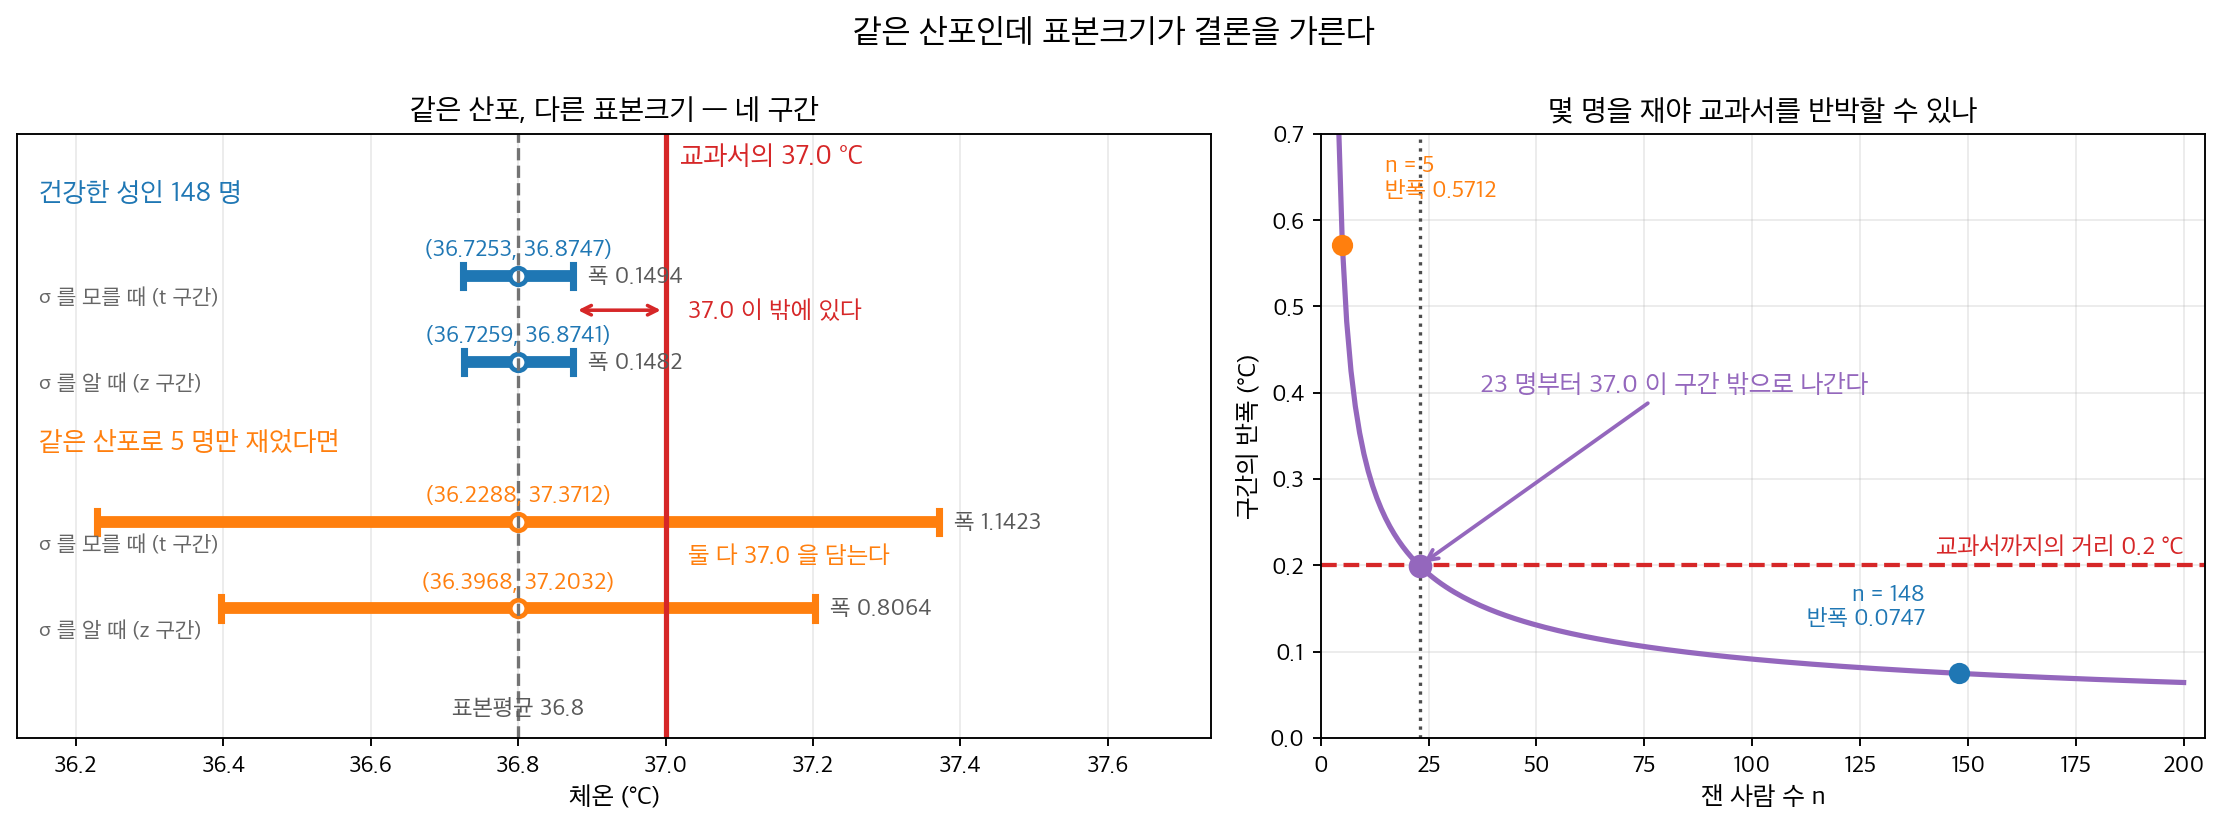
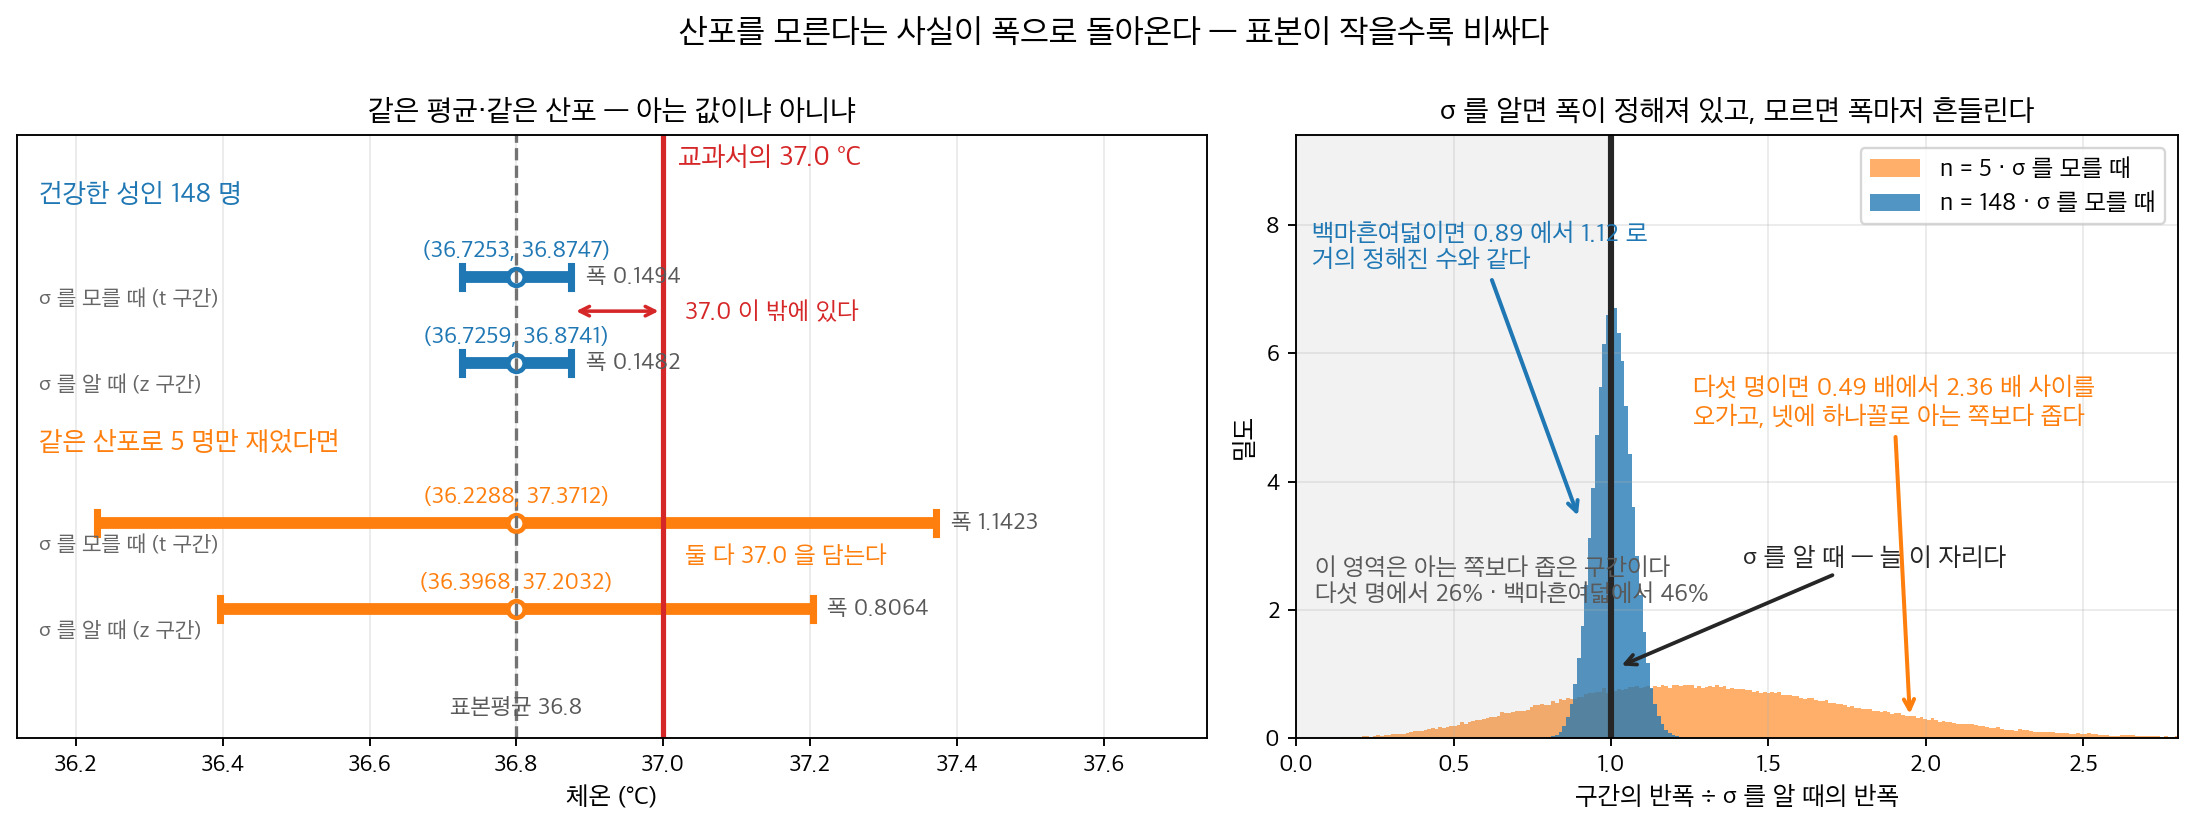
docs(ch08): 8.2 들머리의 주장을 앞으로 — σ 를 아는가
들머리의 주장은 「σ 를 아는가가 구간을 정한다」인데 제목과 첫 세 문단이
초록에서 산포 0.46 을 되짚는 **기제**를 들고 있었다. 갈림길은 넷째
문단에 가서야 나왔다. 문장은 다 맞고 차례만 틀린 꼴이다.

- 제목을 「백이십 년 동안 37.0 이라 적었다」에서 「산포를 모른다는
  사실에 값이 붙는다」로 바꾸고, 첫 문단이 갈림길을 세우게 했다.
  37.0 이야기는 그 갈림길에 놓인 보기로 둘째 문단으로 내렸다
- 그림의 오른쪽 칸을 갈아 끼웠다. 「몇 명을 재야 교과서를 반박하나」는
  표본크기 이야기여서 주장이 아니다. 대신 **넓어진다의 더 날카로운
  꼴**을 그린다 — σ 를 알면 반폭이 자료를 보기 전에 정해진 수지만
  (n = 5 에서 늘 0.4032), 모르면 폭 자체가 표본마다 달라진다.
  아는 쪽의 반폭을 1 로 놓고 재니 다섯 명에서 [0.49, 2.36] 배를
  오가고 **넷에 하나꼴(0.264)로 아는 쪽보다 좁게** 나온다.
  148 명에서는 [0.89, 1.12] 로 사실상 정해진 수와 같다
- 평균적으로 넓어지는 것이 그 요동에 치르는 값이라는 문단을 넣었다

겹침은 먼저 확인했다. 임계값의 비는 1 절 t_vs_z_cost 가, 한 표본에서
넓어진 몫을 둘로 쪼개는 일은 width_decomposition 이 이미 그린다.
폭의 **분포**는 어느 쪽도 그리지 않는다.

23 명이라는 수가 그림에서 빠졌으므로 대체텍스트와 출처 줄에서도 뺐다.

diff --git a/scripts/make_ch08_body_temp_intervals.py b/scripts/make_ch08_body_temp_intervals.py
@@ -1,13 +1,16 @@
-"""8.2절 μ의 신뢰구간 — 교과서의 37.0 은 구간 안에 있는가.
+"""8.2절 μ의 신뢰구간 — 산포를 아는가가 폭을 정한다.
 
-들머리가 적은 네 구간을 그대로 그린다. 마코위악 외(1992)의 초록에서 평균
+들머리의 주장은 **sigma 를 아는가**다. 마코위악 외(1992)의 초록에서 평균
 36.8 과 정상 상한 37.7 을 읽고, 상한을 "평균 + 1.96 x 산포" 로 되짚어
-산포 0.46 을 얻은 뒤(이 되짚기는 이 책의 가정이다), 네 가지로 구간을
-만든다 --- n = 148 과 n = 5, 각각 sigma 를 모를 때와 알 때.
+산포 0.46 을 얻은 뒤(이 되짚기는 이 책의 가정이다), 그 하나를 아는 값으로
+칠 때와 추정해야 할 값으로 칠 때를 두 표본크기에서 맞댄다.
 
-오른쪽은 그 다음 물음이다. 다섯 명으로는 37.0 을 배제하지 못했는데,
-같은 산포라면 몇 명을 재야 배제할 수 있는가. 쪽의 1 절 그림
-t_vs_z_cost 가 임계값의 비를 n 에 따라 그리므로 여기서는 그리지 않는다.
+오른쪽은 "넓어진다" 의 더 날카로운 꼴이다. sigma 를 알면 구간의 폭은 자료를
+모으기 전에 이미 정해진 수인데, 모르면 **폭 자체가 표본마다 달라진다.**
+처음에 여기에 "몇 명을 재야 교과서를 반박하나" 를 그렸는데 그것은 표본크기
+이야기여서 들머리의 주장이 아니었다. 겹침도 보아야 한다 --- 임계값의 비는
+1 절의 t_vs_z_cost 가, 한 표본에서 넓어진 몫을 둘로 쪼개는 일은
+width_decomposition 이 이미 그린다. 폭의 **분포**는 어느 쪽도 그리지 않는다.
 """
 
 import matplotlib.pyplot as plt
@@ -70,40 +73,57 @@ ax1.set_xlim(36.12, 37.74)
 ax1.set_ylim(-0.75, 4.15)
 ax1.set_yticks([])
 ax1.set_xlabel("체온 (°C)", fontsize=11)
-ax1.set_title("같은 산포, 다른 표본크기 — 네 구간", fontsize=12.5)
+ax1.set_title("같은 평균·같은 산포 — 아는 값이냐 아니냐", fontsize=12.5)
 ax1.grid(axis="x", alpha=0.25)
 
-# ── (우) 몇 명을 재야 37.0 을 배제하나 ─────────────────────────────
-gap = BOOK - XBAR
-ns = np.arange(3, 201)
-half = stats.t.ppf(0.975, ns - 1) * SIG / np.sqrt(ns)
-need = int(ns[half < gap][0])
-ax2.plot(ns, half, color="tab:purple", lw=2.2)
-ax2.axhline(gap, color="tab:red", lw=1.8, ls="--")
-ax2.text(200, gap + 0.012, f"교과서까지의 거리 {gap:.1f} °C", ha="right",
-         fontsize=10.5, color="tab:red", fontweight="bold")
-ax2.axvline(need, color="0.3", lw=1.4, ls=":")
-ax2.plot([need], [stats.t.ppf(0.975, need - 1) * SIG / np.sqrt(need)], "o",
-         ms=9, color="tab:purple")
-ax2.annotate(f"{need} 명부터 37.0 이 구간 밖으로 나간다",
-             xy=(need, gap), xytext=(need + 14, 0.40), fontsize=11,
-             fontweight="bold", color="tab:purple",
-             arrowprops=dict(arrowstyle="->", color="tab:purple", lw=1.6))
-for n, c in ((5, "tab:orange"), (148, "tab:blue")):
-    h = stats.t.ppf(0.975, n - 1) * SIG / np.sqrt(n)
-    ax2.plot([n], [h], "o", ms=8, color=c)
-    ax2.annotate(f"n = {n}\n반폭 {h:.4f}", xy=(n, h),
-                 xytext=(n + (10 if n == 5 else -8), h + 0.055),
-                 ha="left" if n == 5 else "right", fontsize=10, color=c,
-                 fontweight="bold")
-ax2.set_xlim(0, 205)
-ax2.set_ylim(0, 0.70)
-ax2.set_xlabel("잰 사람 수 n", fontsize=11)
-ax2.set_ylabel("구간의 반폭 (°C)", fontsize=11)
-ax2.set_title("몇 명을 재야 교과서를 반박할 수 있나", fontsize=12.5)
+# ── (우) 모르면 폭 자체가 흔들린다 ────────────────────────────────
+# 아는 쪽의 반폭을 1 로 놓아 두 표본크기를 한 축에 올린다
+rng = np.random.default_rng(802)
+REPS = 200_000
+stat = {}
+for n, col in ((5, "tab:orange"), (148, "tab:blue")):
+    zh = Z * SIG / np.sqrt(n)                      # 늘 같은 수
+    sd = rng.normal(XBAR, SIG, (REPS, n)).std(axis=1, ddof=1)
+    ratio = stats.t.ppf(0.975, n - 1) * sd / np.sqrt(n) / zh
+    lo_, hi_ = np.percentile(ratio, [2.5, 97.5])
+    stat[n] = (zh, ratio, float(np.median(ratio)), float(lo_), float(hi_),
+               float((ratio < 1).mean()))
+    ax2.hist(ratio, bins=np.linspace(0, 3, 260), density=True, color=col,
+             alpha=0.62 if n == 5 else 0.78,
+             label=f"n = {n} · σ 를 모를 때")
+ax2.set_ylim(0, ax2.get_ylim()[1] * 1.32)      # 글자 자리를 위에 낸다
+ax2.axvline(1.0, color="0.15", lw=2.6)
+ax2.annotate("σ 를 알 때 — 늘 이 자리다", xy=(1.02, 1.1),
+             xytext=(1.42, ax2.get_ylim()[1] * 0.30), ha="left",
+             va="center", fontsize=11, color="0.15", fontweight="bold",
+             arrowprops=dict(arrowstyle="->", color="0.15", lw=1.6))
+ax2.axvspan(0, 1, color="0.5", alpha=0.10)
+ax2.annotate(f"다섯 명이면 {stat[5][3]:.2f} 배에서 {stat[5][4]:.2f} 배 사이를\n"
+             f"오가고, 넷에 하나꼴로 아는 쪽보다 **좁다**".replace("**", ""),
+             xy=(1.95, 0.30), xytext=(1.26, ax2.get_ylim()[1] * 0.52),
+             fontsize=10.8, color="tab:orange", fontweight="bold",
+             ha="left",
+             arrowprops=dict(arrowstyle="->", color="tab:orange", lw=1.7))
+ax2.annotate(f"백마흔여덟이면 {stat[148][3]:.2f} 에서 {stat[148][4]:.2f} 로\n"
+             f"거의 정해진 수와 같다",
+             xy=(0.90, 3.4), xytext=(0.05, ax2.get_ylim()[1] * 0.78),
+             fontsize=10.8, color="tab:blue", fontweight="bold", ha="left",
+             arrowprops=dict(arrowstyle="->", color="tab:blue", lw=1.7))
+ax2.text(0.06, ax2.get_ylim()[1] * 0.30,
+         f"이 영역은 아는 쪽보다 **좁은** 구간이다\n"
+         f"다섯 명에서 {stat[5][5]:.0%} · "
+         f"백마흔여덟에서 {stat[148][5]:.0%}".replace("**", ""),
+         ha="left", va="top", fontsize=10.5, color="0.35")
+ax2.set_ylim(0, ax2.get_ylim()[1])
+ax2.set_xlim(0, 2.8)
+ax2.set_xlabel("구간의 반폭 ÷ σ 를 알 때의 반폭", fontsize=11)
+ax2.set_ylabel("밀도", fontsize=11)
+ax2.legend(fontsize=10.5, loc="upper right")
 ax2.grid(alpha=0.25)
+ax2.set_title("σ 를 알면 폭이 정해져 있고, 모르면 폭마저 흔들린다",
+              fontsize=12.5)
 
-fig.suptitle("같은 산포인데 표본크기가 결론을 가른다", fontsize=14, y=1.0)
+fig.suptitle("산포를 모른다는 사실이 폭으로 돌아온다 — 표본이 작을수록 비싸다", fontsize=14, y=1.0)
 plt.tight_layout()
 path = OUT + "body_temp_intervals.png"
 fig.savefig(path, dpi=170, facecolor="white", bbox_inches="tight")
@@ -117,5 +137,9 @@ w148 = [r[5] for r in ROWS if r[0] == 148]
 w5 = [r[5] for r in ROWS if r[0] == 5]
 print(f"  폭의 차: n=148 에서 {100*(w148[0]/w148[1]-1):.2f}% · "
       f"n=5 에서 {100*(w5[0]/w5[1]-1):.1f}%")
-print(f"  37.0 을 배제하려면 n >= {need} (반폭 "
-      f"{stats.t.ppf(0.975, need-1)*SIG/np.sqrt(need):.4f} < {gap:.1f})")
+print("  σ 를 알 때의 반폭(늘 같다)과, 모를 때 그 몇 배가 되는지")
+for n in (5, 148):
+    zh, _r, med, lo_, hi_, under = stat[n]
+    print(f"    n={n:3d}: 아는 쪽 반폭 {zh:.4f} · 모르는 쪽은 가운데값 "
+          f"{med:.3f} 배 · 95% 범위 [{lo_:.3f}, {hi_:.3f}] 배 · "
+          f"아는 쪽보다 좁게 나오는 비율 {under:.3f}")

diff --git a/docs/ch08/one_sample_intervals/ci_mu.md b/docs/ch08/one_sample_intervals/ci_mu.md
@@ -4,15 +4,13 @@
 
 <div class="leadbox" markdown>
 
-**들어가는 이야기** — 백이십 년 동안 37.0 이라 적었다
+**들어가는 이야기** — 산포를 모른다는 사실에 값이 붙는다
 
-사람의 정상 체온은 $37.0\,^\circ$C 라고 백이십 년 동안 교과서가 적었다. $1992$ 년에 마코위악 등 세 사람이 건강한 성인 $148$ 명의 체온을 다시 재어 평균 $36.8\,^\circ$C 를 얻었다. 그 수 하나만 적어 놓으면 할 수 있는 말이 없다. **폭을 붙여야 하고, 폭을 붙이려면 자료가 얼마나 흩어져 있는지를 알아야 하는데 아무도 그것을 알려 주지 않는다** — 논문 앞머리의 요약(초록)에 산포가 적혀 있지 않다.
+평균 하나에 폭을 붙이려면 자료가 얼마나 흩어져 있는지를 알아야 한다. 그런데 그 산포를 **처음부터 아는** 경우와 **자료에서 추정해야 하는** 경우는 같은 자료에서도 다른 구간을 낸다. 모르는 쪽이 넓다 — 모르는 것이 하나 늘었으니 그래야 한다. 물음은 **얼마나** 넓어지느냐이고, 답은 표본크기에 달려 있다.
 
-그래서 초록에 함께 실린 수 하나를 썼다. 「정상 체온의 **상한**은 $37.7\,^\circ$C」라는 줄이다. 상한이란 보통 사람의 체온이 거의 다 그 아래에 들어온다는 뜻이고, 자료가 종 모양으로 퍼져 있을 때 그 자리는 **평균에서 산포의 $1.96$ 배만큼 위**다. 그러니 거꾸로 풀면 된다. $37.7 - 36.8 = 0.9$ 가 산포의 $1.96$ 배이니 산포는 $0.9 \div 1.96 \approx 0.46$ 이다.
+사람의 정상 체온이 그 갈림길에 놓인 수다. $37.0\,^\circ$C 라고 백이십 년 동안 교과서가 적었는데, $1992$ 년에 마코위악 등 세 사람이 건강한 성인 $148$ 명을 다시 재어 평균 $36.8\,^\circ$C 를 얻었다. 그 수 하나만으로는 할 말이 없고 폭을 붙여야 하는데, 논문 앞머리의 요약(초록)에 **산포가 적혀 있지 않다.** 함께 실린 「정상 체온의 상한은 $37.7\,^\circ$C」를 「평균에서 산포의 $1.96$ 배 위」로 읽어 거꾸로 풀면 $0.9 \div 1.96 \approx 0.46$ 이 나온다. 이것은 **사람마다** 체온이 얼마나 다른지이고, 우리가 폭을 붙이려는 $148$ 명의 **평균**은 그보다 훨씬 덜 흔들려 $0.46 \div \sqrt{148} = 0.0378$ 이다.
 
-이 $0.46$ 은 **사람마다** 체온이 얼마나 다른지다. 그런데 우리가 폭을 붙이려는 것은 한 사람의 체온이 아니라 $148$ 명의 **평균**이고, 평균은 개인보다 훨씬 덜 흔들린다. 얼마나 덜 흔들리는지가 $\sqrt{148}$ 로 나누는 일이어서 $0.46 \div \sqrt{148} = 0.0378$ 이 된다. 여기에 구간을 얼마나 벌릴지 정하는 수 — 임계값 $1.9762$ — 를 곱해 평균 $36.8$ 의 좌우로 벌리면 $95\%$ 구간이 $(36.7253,\ 36.8747)$ 이다. **교과서의 $37.0$ 은 그 안에 없다.**
-
-여기서 갈림길이 나온다. 같은 $0.46$ 을 **자료에서 추정한 값이 아니라 처음부터 아는 값**으로 친다면 임계값이 $1.9762$ 에서 $1.9600$ 으로 내려간다. 그 선택이 얼마짜리인지는 네 구간을 나란히 놓으면 보인다. 사람을 다섯만 재었다면 어떻게 되었을지도 함께 적었다.
+이제 갈림길이다. 그 $0.46$ 을 자료에서 추정한 값으로 치면 구간을 벌리는 임계값이 $1.9762$ 이고, 처음부터 아는 값으로 치면 $1.9600$ 이다. 같은 자료에 사람 수만 바꾸어 네 구간을 놓으면 그 선택이 얼마짜리인지 보인다.
 
 | | $\sigma$ 를 **모를 때** | $\sigma$ 를 **알 때** | 폭의 차 |
 |---|---|---|---|
@@ -20,19 +18,19 @@
 | $n = 5$ | $(36.2288,\ 37.3712)$ | $(36.3968,\ 37.2032)$ | $41.7\%$ |
 
 <figure markdown>
-![왼쪽은 네 신뢰구간을 체온 축에 나란히 놓은 그림. 148 명짜리 두 구간은 짧고 37.0 도 선의 왼쪽에 통째로 놓여 있으며, 5 명짜리 두 구간은 훨씬 길어 37.0 도 선을 넘어선다. 오른쪽은 잰 사람 수에 따라 구간의 반폭이 줄어드는 곡선으로, 교과서까지의 거리인 0.2 도 선을 23 명에서 가로지른다](./img/body_temp_intervals.png){ width="960" }
-  <figcaption markdown>**왼쪽.** 네 구간의 중심은 모두 $36.8$ 이고 산포도 같은 $0.46$ 이다. 달라진 것은 표본크기와 $\sigma$ 를 아는지뿐인데, 위의 둘은 $37.0$ 을 **밖에 두고** 아래의 둘은 **담는다.** $148$ 명에서 $t$ 구간과 $z$ 구간의 폭이 $0.1494$ 와 $0.1482$ 로 소수 셋째 자리에서나 갈리는 것도 보인다. **오른쪽.** 그러면 다섯 명으로 못 한 일을 몇 명이면 할 수 있는가. 같은 산포라면 반폭이 $36.8$ 에서 $37.0$ 까지의 거리 $0.2$ 아래로 내려가는 **$23$ 명**부터다 — 이 수는 이 책이 따져 본 것이고 그 논문의 수가 아니다.</figcaption>
+![왼쪽은 네 신뢰구간을 체온 축에 나란히 놓은 그림. 148 명짜리 두 구간은 짧고 37.0 도 선의 왼쪽에 통째로 놓여 있으며, 5 명짜리 두 구간은 훨씬 길어 둘 다 37.0 도 선을 넘어선다. 오른쪽은 산포를 알 때의 반폭을 1 로 놓고 모를 때의 반폭이 몇 배가 되는지 그린 분포 둘로, 다섯 명짜리는 넓게 퍼져 있고 백마흔여덟 명짜리는 1 에 바싹 붙어 있다](./img/body_temp_intervals.png){ width="960" }
+  <figcaption markdown>**왼쪽.** 네 구간의 중심은 모두 $36.8$ 이고 산포도 같은 $0.46$ 이다. 달라진 것은 $\sigma$ 를 아는지와 표본크기뿐인데, $148$ 명에서는 두 구간의 폭이 $0.1494$ 와 $0.1482$ 로 소수 셋째 자리에서나 갈려 둘 다 $37.0$ 을 **밖에 두고**, 다섯 명에서는 $1.1423$ 과 $0.8064$ 로 벌어지면서 둘 다 $37.0$ 을 **담는다.** **오른쪽.** 넓어지는 것만이 아니다. $\sigma$ 를 알면 반폭은 자료를 모으기 전에 이미 정해진 수지만($n = 5$ 에서 늘 $0.4032$), 모르면 그 폭이 표본마다 달라진다. 다섯 명에서는 아는 쪽의 $0.49$ 배에서 $2.36$ 배 사이를 오가고 **넷에 하나꼴로는 아는 쪽보다 좁게** 나온다. $148$ 명에서는 $0.89$ 와 $1.12$ 사이라 사실상 정해진 수와 같다.</figcaption>
 </figure>
 
-$148$ 명에서는 두 구간이 **소수 넷째 자리에서나 갈린다.** 어느 쪽을 쓰든 결론이 같다. 그런데 다섯 명이면 폭이 $0.806$ 에서 $1.142$ 로 벌어진다. 더 중요한 것은 그 아랫줄의 구간이 **둘 다 $37.0$ 을 담는다**는 점이다 — 다섯 명으로는 교과서를 반박할 수 없다.
+$148$ 명에서는 어느 쪽을 쓰든 결론이 같다. 그런데 같은 산포로 다섯 명만 재었다면 폭이 $41.7\%$ 늘고, 더 중요하게 **두 구간이 다 $37.0$ 을 담는다** — 다섯 명으로는 교과서를 반박할 수 없다. **모르는 값 하나는 표본이 작을수록 비싸다.**
 
-여기서 읽어야 할 것은 이것이다. **$\sigma$ 를 모른다는 사실이 구간을 얼마나 넓히는가는 표본이 몇인가에 달려 있다.** $148$ 명에서는 폭이 $0.83\%$ 늘 뿐이라 두 구간이 사실상 같은 구간이고, 다섯 명에서는 $41.7\%$ 가 늘어 결론까지 달라진다. **표본이 작을수록 모르는 값 하나가 비싸진다.**
+그 값은 평균적인 폭에만 붙는 것이 아니다. $\sigma$ 를 알면 구간의 폭은 자료를 보기도 전에 정해져 있는데, 모르면 산포를 자료에서 읽어야 하므로 **폭 자체가 뽑을 때마다 달라진다.** 다섯 명에서는 그 요동이 두 배가 넘고, 넷에 하나꼴로는 아는 쪽보다 오히려 좁은 구간이 나온다. 평균적으로 넓어지는 것이 바로 그 요동에 치르는 값이다 — 좁게 나온 표본에서 잃는 포함확률을 넓게 나온 표본에서 메워야 하기 때문이다.
 
 그렇다고 「표본이 크면 아는 값처럼 써도 된다」가 되지는 않는다. 어느 쪽이 **맞는지**는 $n$ 과 아무 상관이 없고 $\sigma$ 를 아는가로만 정해진다. 큰 표본에서 그 구별이 잘 보이지 않는 것은 **맞아서가 아니라 틀려도 티가 나지 않을 만큼 차이가 작아서**다. 그러면 그 차이는 정확히 어디서 생기고 $n$ 과 함께 어떻게 줄어드는가.
 
 이 절은 그 두 구간을 세우고 둘의 값을 잰다. 같은 자료에 **판정**을 붙이는 쪽은 9.2절 [μ에 대한 t-검정 (σ를 모르는 경우)](../../ch09/one_sample_tests/t_test_mean.md)이고, 그 쪽의 상자가 $37.0$ 이라는 수의 뒷이야기를 끝까지 따라간다.
 
-_확인한 곳 — Mackowiak · Wasserman · Levine, 『JAMA』 $268$($1992$) $1578$ 쪽의 초록 — 건강한 성인 $148$ 명, 평균 $36.8\,^\circ$C, 정상 상한 $37.7\,^\circ$C. 표준편차는 그 초록에 없다. **상한을 「평균에서 산포의 $1.96$ 배 위」로 읽어 되짚은 것은 이 책의 가정이고**, 거기서 나온 $0.46$ 과 네 구간은 모두 직접 계산한 값이다. 표의 $n = 5$ 줄과 그림 오른쪽의 $23$ 명은 **같은 산포로 사람 수를 바꾸었다면 어떻게 되었을지를 이 책이 따져 본 것**이고 그 논문의 수가 아니다_
+_확인한 곳 — Mackowiak · Wasserman · Levine, 『JAMA』 $268$($1992$) $1578$ 쪽의 초록 — 건강한 성인 $148$ 명, 평균 $36.8\,^\circ$C, 정상 상한 $37.7\,^\circ$C. 표준편차는 그 초록에 없다. **상한을 「평균에서 산포의 $1.96$ 배 위」로 읽어 되짚은 것은 이 책의 가정이고**, 거기서 나온 $0.46$ 과 네 구간은 모두 직접 계산한 값이다. 표의 $n = 5$ 줄과 그림 오른쪽의 폭 분포는 **같은 산포로 사람 수를 바꾸었다면 어떻게 되었을지를 이 책이 따져 본 것**이고 그 논문의 수가 아니다_
 
 </div>
 
